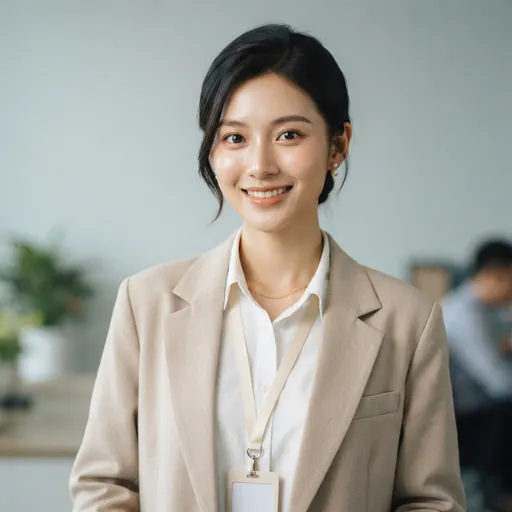
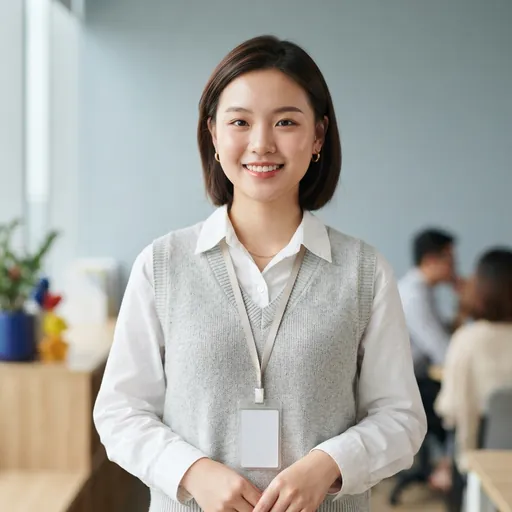
Vẽ lại 7 nhân vật chính: trẻ hơn (sinh viên thực tập), mỗi người một phong cách và khuôn mặt riêng [skip ci]
Claude-Session: https://claude.ai/code/session_018HVPnLa6xCguYk66K57zua

diff --git a/tools/image-list.py b/tools/image-list.py
@@ -6,13 +6,13 @@ STYLE = ("Photorealistic editorial photograph, natural soft daylight, real adult
          "Natural human anatomy: every person has exactly two arms and two hands with five fingers; avoid extra or floating hands.")
 PORTRAIT = "Chest-up portrait, looking at the camera with a natural smile, plain soft blue-grey studio background, 50mm lens. "
 CHARS = {
-  "char-an": "An, a beautiful young Vietnamese woman about 20 years old, modern C-drama leading-lady look: large bright expressive eyes, delicate high nose bridge, softly defined cheekbones, luminous dewy skin, slender graceful figure, long glossy black hair half-up with a small cream satin ribbon, ivory silk blouse with a soft oatmeal knit cardigan draped over her shoulders, tiny pearl stud earrings, dainty gold watch. Youthful, fresh and soft, trendy Gen Z office style mixed with quiet-luxury old money taste: light airy neutral palette, relaxed tailored fit, minimal delicate accessories, glowing natural makeup, gentle sweet expression. Bright airy natural light, soft creamy background. An original fictional character with a unique face, not resembling any real person or celebrity.",
-  "char-tom": "Tom, a handsome young British man about 20 years old, tall and slim, clean jawline, clear bright eyes, soft tousled ginger hair, light freckles, sage green cable-knit sweater over a white T-shirt collar, easygoing cheerful smile. Youthful, fresh and soft, trendy Gen Z office style mixed with quiet-luxury old money taste: light airy neutral palette, relaxed tailored fit, minimal delicate accessories, glowing natural makeup, gentle sweet expression. Bright airy natural light, soft creamy background. An original fictional character with a unique face, not resembling any real person or celebrity.",
-  "char-kevin": "Kevin, a handsome young Asian-American man about 20 years old, modern C-drama leading-man look: tall and slim, clean soft jawline, defined natural brows, clear bright eyes, smooth clear skin, gentle refined aura, soft textured dark hair with a light fringe, thin gold-rim round glasses, light blue oxford shirt under a cream knit sweater vest, sleeves casually rolled. Youthful, fresh and soft, trendy Gen Z office style mixed with quiet-luxury old money taste: light airy neutral palette, relaxed tailored fit, minimal delicate accessories, glowing natural makeup, gentle sweet expression. Bright airy natural light, soft creamy background. An original fictional character with a unique face, not resembling any real person or celebrity.",
-  "char-linh": "Linh, a pretty young Vietnamese woman about 20 years old, modern C-drama leading-lady look: large bright expressive eyes, delicate high nose bridge, softly defined cheekbones, luminous dewy skin, slender graceful figure, long glossy black hair with soft waves held by a tortoiseshell claw clip, butter-yellow fine-knit cardigan over a cream camisole, pearl stud earrings, warm sweet smile. Youthful, fresh and soft, trendy Gen Z office style mixed with quiet-luxury old money taste: light airy neutral palette, relaxed tailored fit, minimal delicate accessories, glowing natural makeup, gentle sweet expression. Bright airy natural light, soft creamy background. An original fictional character with a unique face, not resembling any real person or celebrity.",
+  "char-an": "An, a pretty Vietnamese young woman, looks like a 19-year-old university student who just started an office internship, very youthful fresh baby face, soft rounded cheeks, smooth glowing skin, minimal light makeup, oval face, long straight black hair with a center part and wispy see-through bangs. Style: clean-girl minimal chic, ivory ribbed knit top, light beige wide-leg trousers, thin gold necklace, small pearl studs. Bright airy natural light, plain soft pastel background, candid relaxed pose. Trendy Gen Z look. An original fictional character with a unique face, not resembling any real person or celebrity.",
+  "char-tom": "Tom, a friendly British young man, looks like a 19-year-old university student who just started an office internship, very youthful fresh face, light freckles, fluffy curly ginger hair. Style: indie casual, light-wash denim jacket over a forest green knit sweater, cheerful boyish smile. Bright airy natural light, plain soft pastel background, candid relaxed pose. Trendy Gen Z look. An original fictional character with a unique face, not resembling any real person or celebrity.",
+  "char-kevin": "Kevin, a handsome Asian-American young man, looks like a 19-year-old university student who just started an office internship, very youthful fresh baby face, soft rounded cheeks, smooth glowing skin, minimal light makeup, slim face, soft fluffy comma-hair fringe, thin round silver glasses. Style: preppy campus, light blue oxford shirt under a cream cable-knit cardigan, white sneakers, gentle smile. Bright airy natural light, plain soft pastel background, candid relaxed pose. Trendy Gen Z look. An original fictional character with a unique face, not resembling any real person or celebrity.",
+  "char-linh": "Linh, a sweet Vietnamese young woman, looks like a 19-year-old university student who just started an office internship, very youthful fresh baby face, soft rounded cheeks, smooth glowing skin, minimal light makeup, heart-shaped face with dimples, shoulder-length soft wavy dark-brown hair with curtain bangs and a small yellow ribbon. Style: Korean soft girl, butter-yellow puff-sleeve blouse with a white Peter Pan collar, tiny daisy earrings, shy warm smile. Bright airy natural light, plain soft pastel background, candid relaxed pose. Trendy Gen Z look. An original fictional character with a unique face, not resembling any real person or celebrity.",
   "char-sarah": "Sarah Lee, a Korean-American businesswoman about 38, black bob haircut, charcoal blazer over a white shirt, confident.",
-  "char-wangli": "Wang Li, a beautiful young Chinese woman about 20 years old, modern C-drama leading-lady look: large bright expressive eyes, delicate high nose bridge, softly defined cheekbones, luminous dewy skin, slender graceful figure, glossy black hair in a bouncy high ponytail with soft face-framing strands, soft cherry-red cropped knit cardigan over a white collared shirt, small gold hoop earrings, bright playful smile. Youthful, fresh and soft, trendy Gen Z office style mixed with quiet-luxury old money taste: light airy neutral palette, relaxed tailored fit, minimal delicate accessories, glowing natural makeup, gentle sweet expression. Bright airy natural light, soft creamy background. An original fictional character with a unique face, not resembling any real person or celebrity.",
-  "char-minh": "Minh, a handsome young Vietnamese man about 20 years old, modern C-drama leading-man look: tall and slim, clean soft jawline, defined natural brows, clear bright eyes, smooth clear skin, gentle refined aura, soft textured black hair with a natural fringe, relaxed sage green linen shirt with the top button open, beige trousers, friendly easy smile. Youthful, fresh and soft, trendy Gen Z office style mixed with quiet-luxury old money taste: light airy neutral palette, relaxed tailored fit, minimal delicate accessories, glowing natural makeup, gentle sweet expression. Bright airy natural light, soft creamy background. An original fictional character with a unique face, not resembling any real person or celebrity.",
+  "char-wangli": "Wang Li, a cute Chinese young woman, looks like a 19-year-old university student who just started an office internship, very youthful fresh baby face, soft rounded cheeks, smooth glowing skin, minimal light makeup, round face with big sparkling eyes, chin-length glossy black bob with blunt full bangs. Style: sporty street chic, cherry-red cropped varsity jacket over a white tee, silver hoop earrings, playful wide grin. Bright airy natural light, plain soft pastel background, candid relaxed pose. Trendy Gen Z look. An original fictional character with a unique face, not resembling any real person or celebrity.",
+  "char-minh": "Minh, a handsome Vietnamese young man, looks like a 19-year-old university student who just started an office internship, very youthful fresh baby face, soft rounded cheeks, smooth glowing skin, minimal light makeup, warm tan skin, short two-block haircut with a messy textured top. Style: relaxed Gen Z streetwear, oversized sage green overshirt over a plain white tee, thin silver chain, black cap held in one hand, easy laid-back grin. Bright airy natural light, plain soft pastel background, candid relaxed pose. Trendy Gen Z look. An original fictional character with a unique face, not resembling any real person or celebrity.",
   "char-wangjl": "Manager Wang, a Chinese businessman about 50, short greying hair, dark navy suit, red tie, rimless glasses, polite and warm.",
 }
 SCENES = {
